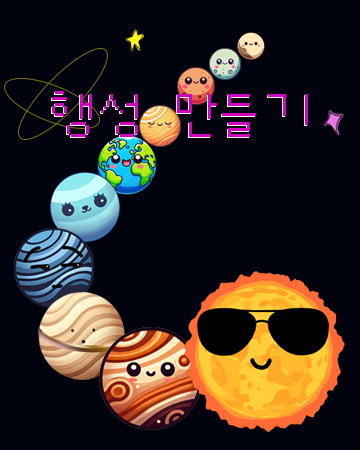
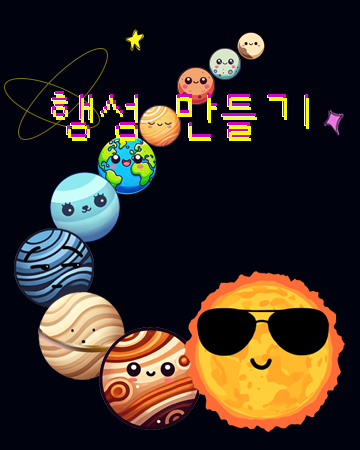
dd

diff --git a/rest/planet/style.css b/rest/planet/style.css
@@ -108,7 +108,7 @@ html, body {
     position: relative;
     width: 100%;
     height: calc(100% - 80px); /* 화면에서 상단 UI 제외한 영역 */
-    background-color: #2e2e3e;
+    background-color: #00001a;
     border: 2px solid #fff;
     box-sizing: border-box;
     overflow: hidden;
@@ -326,7 +326,7 @@ button:disabled {
 #start-btn {
     font-family: 'GangwonEduSaeeum_OTFMediumA';
     position: absolute; /* 부모 기준으로 위치 조정 가능 */
-    top: 80%; /* 부모 요소의 60% 높이에서 위치 */
+    top: 55%; /* 부모 요소의 60% 높이에서 위치 */
     left: 50%; /* 부모 요소의 중앙 */
     transform: translate(-50%, -50%); /* 정확한 중앙 정렬 보정 */
     padding: 10px 20px;
